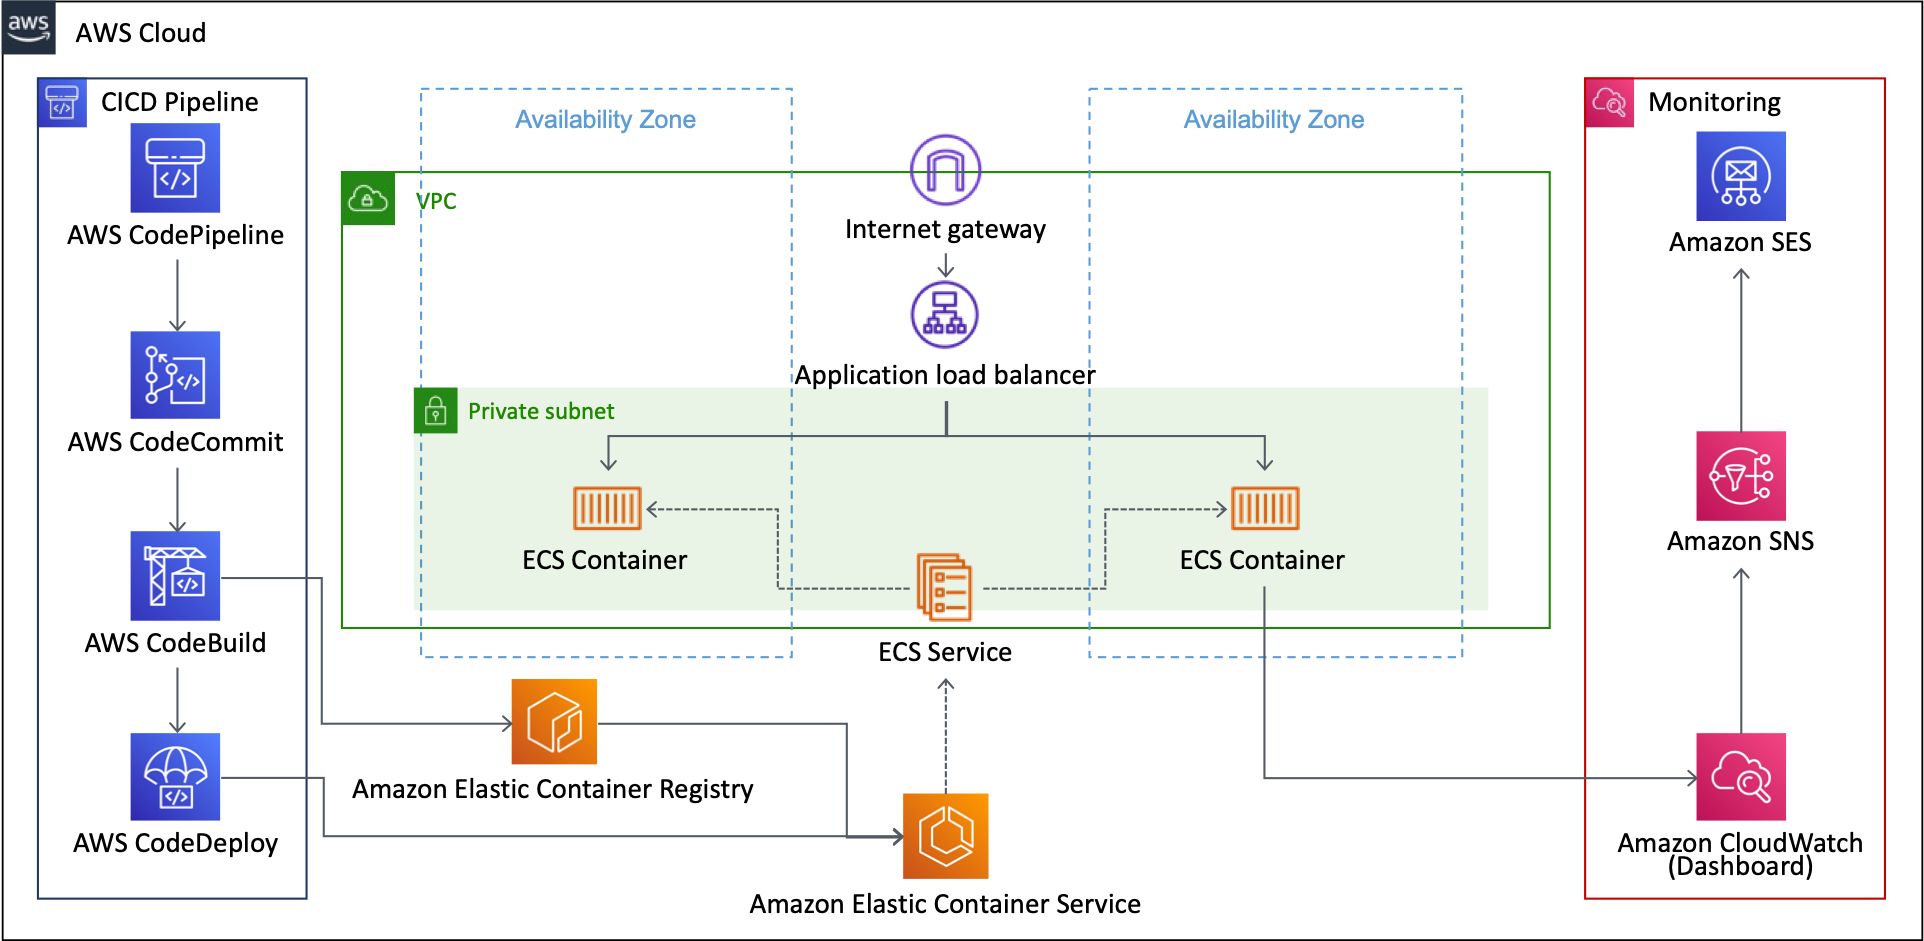
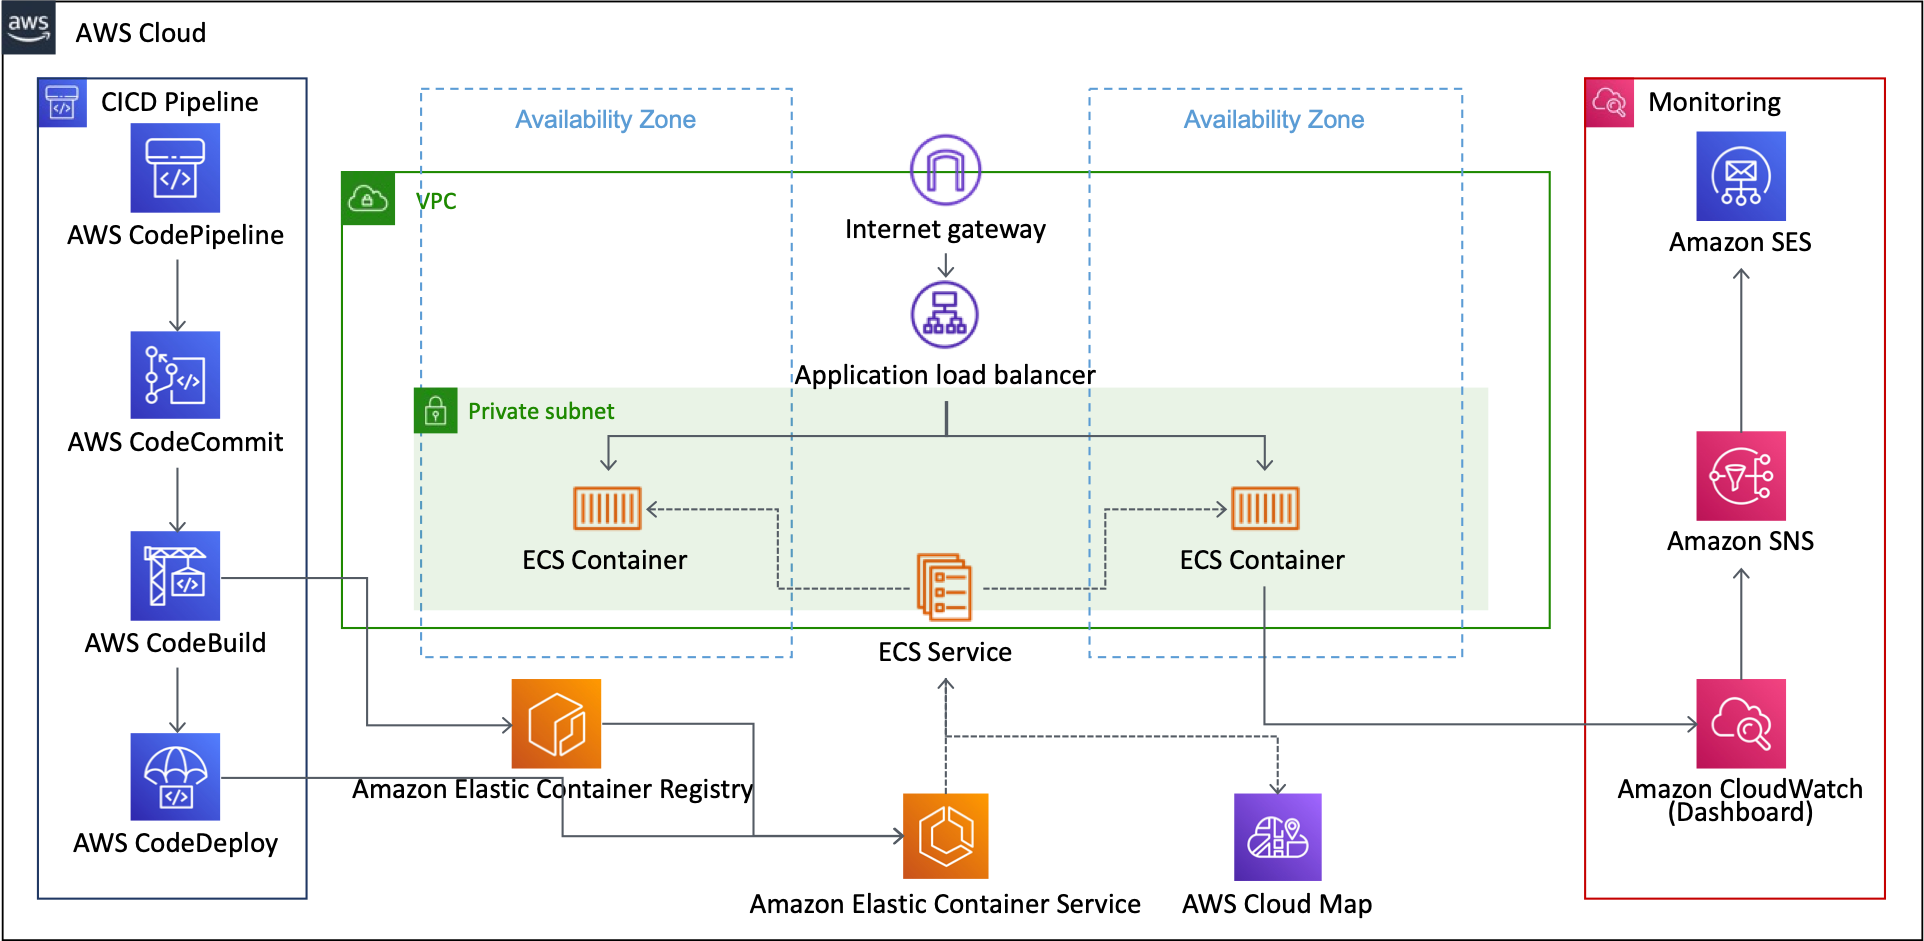
Update docs

diff --git a/README.md b/README.md
@@ -14,6 +14,7 @@ Other "Using AWS CDK" series can be found at:
 - ***Programming-based IaC***: all cloud resources are modeld and provisioned using AWS CDK(Typescript)
 - ***Fully managed CICD***: Continuous integration and continuous deploy using AWS Code Series(Pipeline/Commit/Build/Deploy)
 - ***Fully managed Monitoring***: logging, metric, dashboard using Amazon CloudWatch
+- ***Service Discovery***: private DNS service registration & discovery using AWS Cloud Map
 
 ![solution-arcitecture](docs/asset/solution-architecture.png)
 
@@ -23,7 +24,7 @@ To efficiently define and provision aws cloud resources, [AWS Cloud Development 
 
 ![AWSCDKIntro](docs/asset/aws_cdk_intro.png)
 
-Because this solusion is implemented in CDK, we can deploy these cloud resources using CDK CLI. Among the various languages supported, this solution used typescript. Because the types of **typescript** are very strict, with the help of auto-completion, typescrip offers a very nice combination with AWS CDK.
+Because this solusion is implemented in CDK, we can deploy these cloud resources using CDK CLI. Among the various languages supported, this solution used **typescript**. Because the types of **typescript** are very strict, with the help of auto-completion, **typescript** offers a very nice combination with AWS CDK.
 
 ***Caution***: This solution contains not-free tier AWS services. So be careful about the possible costs.
 
@@ -63,7 +64,7 @@ The `cdk.json` file tells CDK Toolkit how to execute your app.
 
 ### ***Set up deploy config***
 
-The `config/app-config-demo.json` files tell how to configure deploy condition & stack condition. First of all, change project configurations(Account, Profile are essential) in ```config/app-config-demo.json```.
+The `config/app-config-demo.json` file describes how to configure deploy condition & stack condition. First of all, change project configurations(Account, Profile are essential) in ```config/app-config-demo.json```.
 
 ```json
 {
@@ -88,7 +89,7 @@ export APP_CONFIG=config/app-config-demo.json
 ### ***Install dependecies & Bootstrap***
 
 ```bash
-sh ./script/setup_initial.sh config/app-config-demo.json
+sh scripts/setup_initial.sh config/app-config-demo.json
 ```
 
 ### ***Deploy stacks***
@@ -100,7 +101,9 @@ cdk list
 ...
 ...
 ==> CDK App-Config File is config/app-config-demo.json, which is from Environment-Variable.
-EcsProjectDemo-EcsAlbStack
+EcsProjectDemo-LoadTesterScriptStack
+EcsProjectDemo-SampleBackendFastapiStack
+EcsProjectDemo-SampleFrontendFlaskStack
 EcsProjectDemo-VpcInfraStack
 ...
 ...
@@ -111,13 +114,13 @@ Check if you can see the list of stacks as shown above.
 If there is no problem, finally run the following command.
 
 ```bash
-sh ./script/deploy_stacks.sh config/app-config-demo.json
+sh scripts/deploy_stacks.sh config/app-config-demo.json
 ```
 
 You can find the deployment results in AWS CloudFormation as shown in the following picture.
 ![cloudformation-stacks](docs/asset/cloudformation-stacks.png)
 
-Open a web-browser and enter LoadBalancer's domain name(which is the output of ```sh script/deploy_stacks```) to see the following screen.
+Open a web-browser and enter LoadBalancer's domain name(which is the output of ```sh scripts/deploy_stacks```) to see the following screen. or You can find that in AWS CloudFormation.
 
 ```bash
 ...
@@ -129,12 +132,23 @@ EcsProjectDemo-EcsAlbStack.EcsAlbInfraConstrunctServiceServiceURL290953F6 = http
 ...
 ```
 
+![frontend-alb-dns](docs/asset/frontend-alb-dns.png)
+
+The initial web page is a php sample screen(in public DockerHub) as we haven't uploaded the source code yet.
 ![initial-web-page](docs/asset/initial-web-page.png)
-The initial screen is a php sample screen(in public DockerHub) as we haven't uploaded the source code yet.
+
+These stacks finally deploy the following resources.
+
+ - EcsProjectDemo-VpcInfraStack: VPC, ECS Cluster, Cloud Map Namespace
+ - EcsProjectDemo-SampleBackendFastapiStack: CodeCommit, ECR, ECS Service/Task, Dashboard, CICD Pipeline for **sample-backend-fastapi**
+ - EcsProjectDemo-SampleFrontendFlaskStack: CodeCommit, ECR, ECS Service/Task, Dashboard, CICD Pipeline for **sample-frontend-flask**
+ - EcsProjectDemo-LoadTesterScriptStack: ECS Service/Task for **load-tester-script**
+
+![stack-pipeline](docs/asset/stack-pipeline.png)
 
 ## How to update logic
 
-AWS CDK made CodeCommit(git) repository for you. Please visit CodeCommit in AWS management web console, note remote address of that.
+AWS CDK created CodeCommit(source repoistory)/ECR(docker repository) repository for you. Please visit CodeCommit in AWS management web console, note remote address of that.
 ![codecommit-repo](docs/asset/codecommit-repo.png)
 
 Finally add git remote address in your development environment. Thease codes are sample for you.
